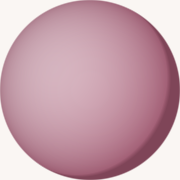
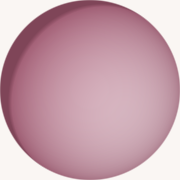
Set default orb axis angle to 35 degrees (#9)
* Set default orb axis angle to 35 degrees

Update ORB_DEFAULTS.axisDeg from -150 to 35 so header and design page
orbs share the new tilt. Regenerate favicon assets to match.

* Import ORB_DEFAULTS in favicon generator

Use theme-orb.js as the single source of truth for orb tuning defaults
instead of duplicating axis, rotation, lightness, and contrast values.

---------

diff --git a/site/src/js/theme-orb.js b/site/src/js/theme-orb.js
@@ -4,7 +4,7 @@ const CRESCENT_SIGN = -1
 
 /** Canonical defaults (header + design reset). */
 export const ORB_DEFAULTS = {
-    axisDeg: -150,
+    axisDeg: 35,
     sunRotationDeg: 30,
     moonRotationDeg: 130,
     lightness: 80,
